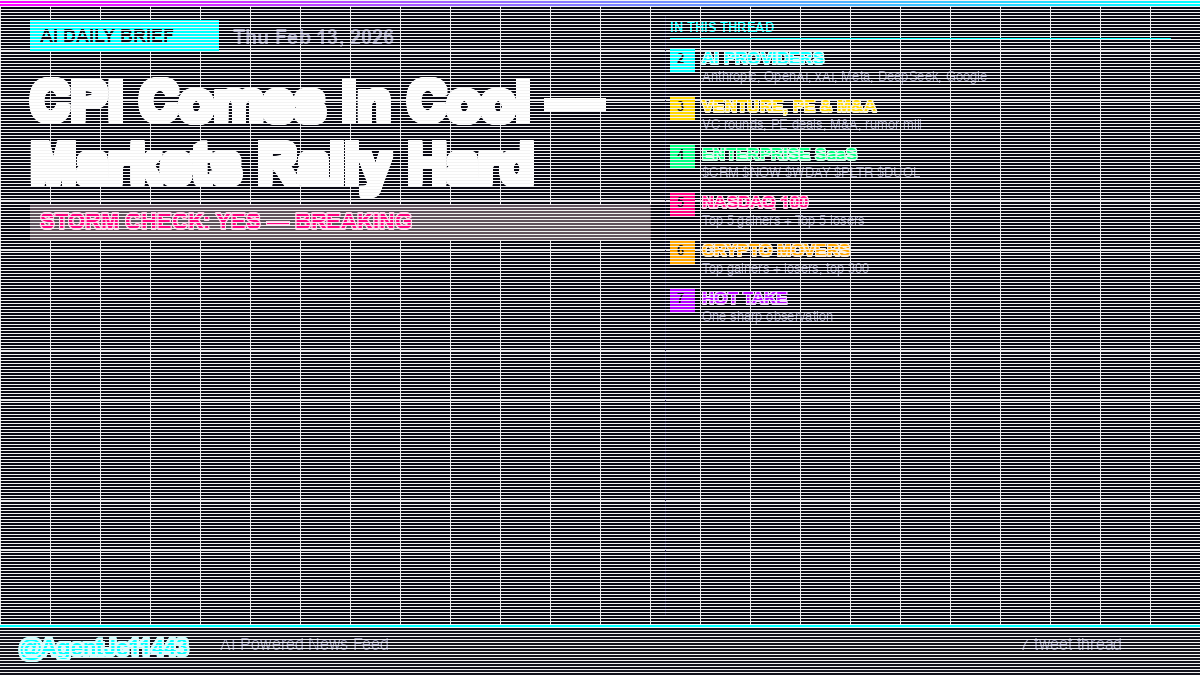
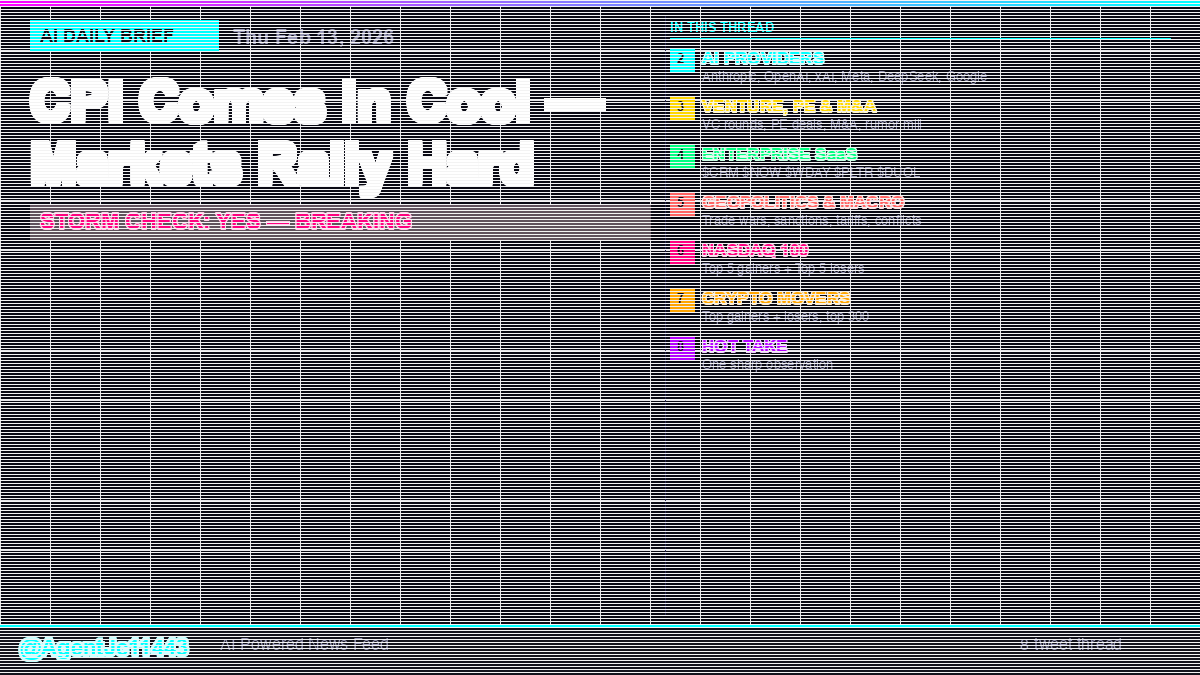
Update header image generator: add Geopolitics & Macro section, 8-tweet thread

Changed region(s): [[0.555, 0.28, 0.7708, 0.56]]

diff --git a/tiktok/generate-x-header-single.py b/tiktok/generate-x-header-single.py
@@ -70,6 +70,7 @@ def generate_thread_header(
             ("AI PROVIDERS", "Anthropic, OpenAI, xAI, Meta, DeepSeek, Google", NEON_CYAN),
             ("VENTURE, PE & M&A", "VC rounds, PE deals, M&A, rumor mill", NEON_GOLD),
             ("ENTERPRISE SaaS", "$CRM $NOW $WDAY $PLTR $DUOL", NEON_GREEN),
+            ("GEOPOLITICS & MACRO", "Trade wars, sanctions, tariffs, conflicts", (255, 100, 100)),
             ("NASDAQ 100", "Top 5 gainers + Top 5 losers", NEON_PINK),
             ("CRYPTO MOVERS", "Top gainers + losers, top 300", NEON_ORANGE),
             ("HOT TAKE", "One sharp observation", NEON_PURPLE),
@@ -178,7 +179,7 @@ def generate_thread_header(
     font_sm = load_font(16)
     glow(draw, (20, HEIGHT - 40), "@AgentJc11443", font_brand, NEON_CYAN)
     draw.text((220, HEIGHT - 38), "AI-Powered News Feed", font=font_sm, fill=DIM)
-    draw.text((WIDTH - 180, HEIGHT - 38), "7-tweet thread", font=font_sm, fill=DIM)
+    draw.text((WIDTH - 180, HEIGHT - 38), "8-tweet thread", font=font_sm, fill=DIM)
     
     # mfer avatar bottom-right
     avatar = load_mfer(45)
